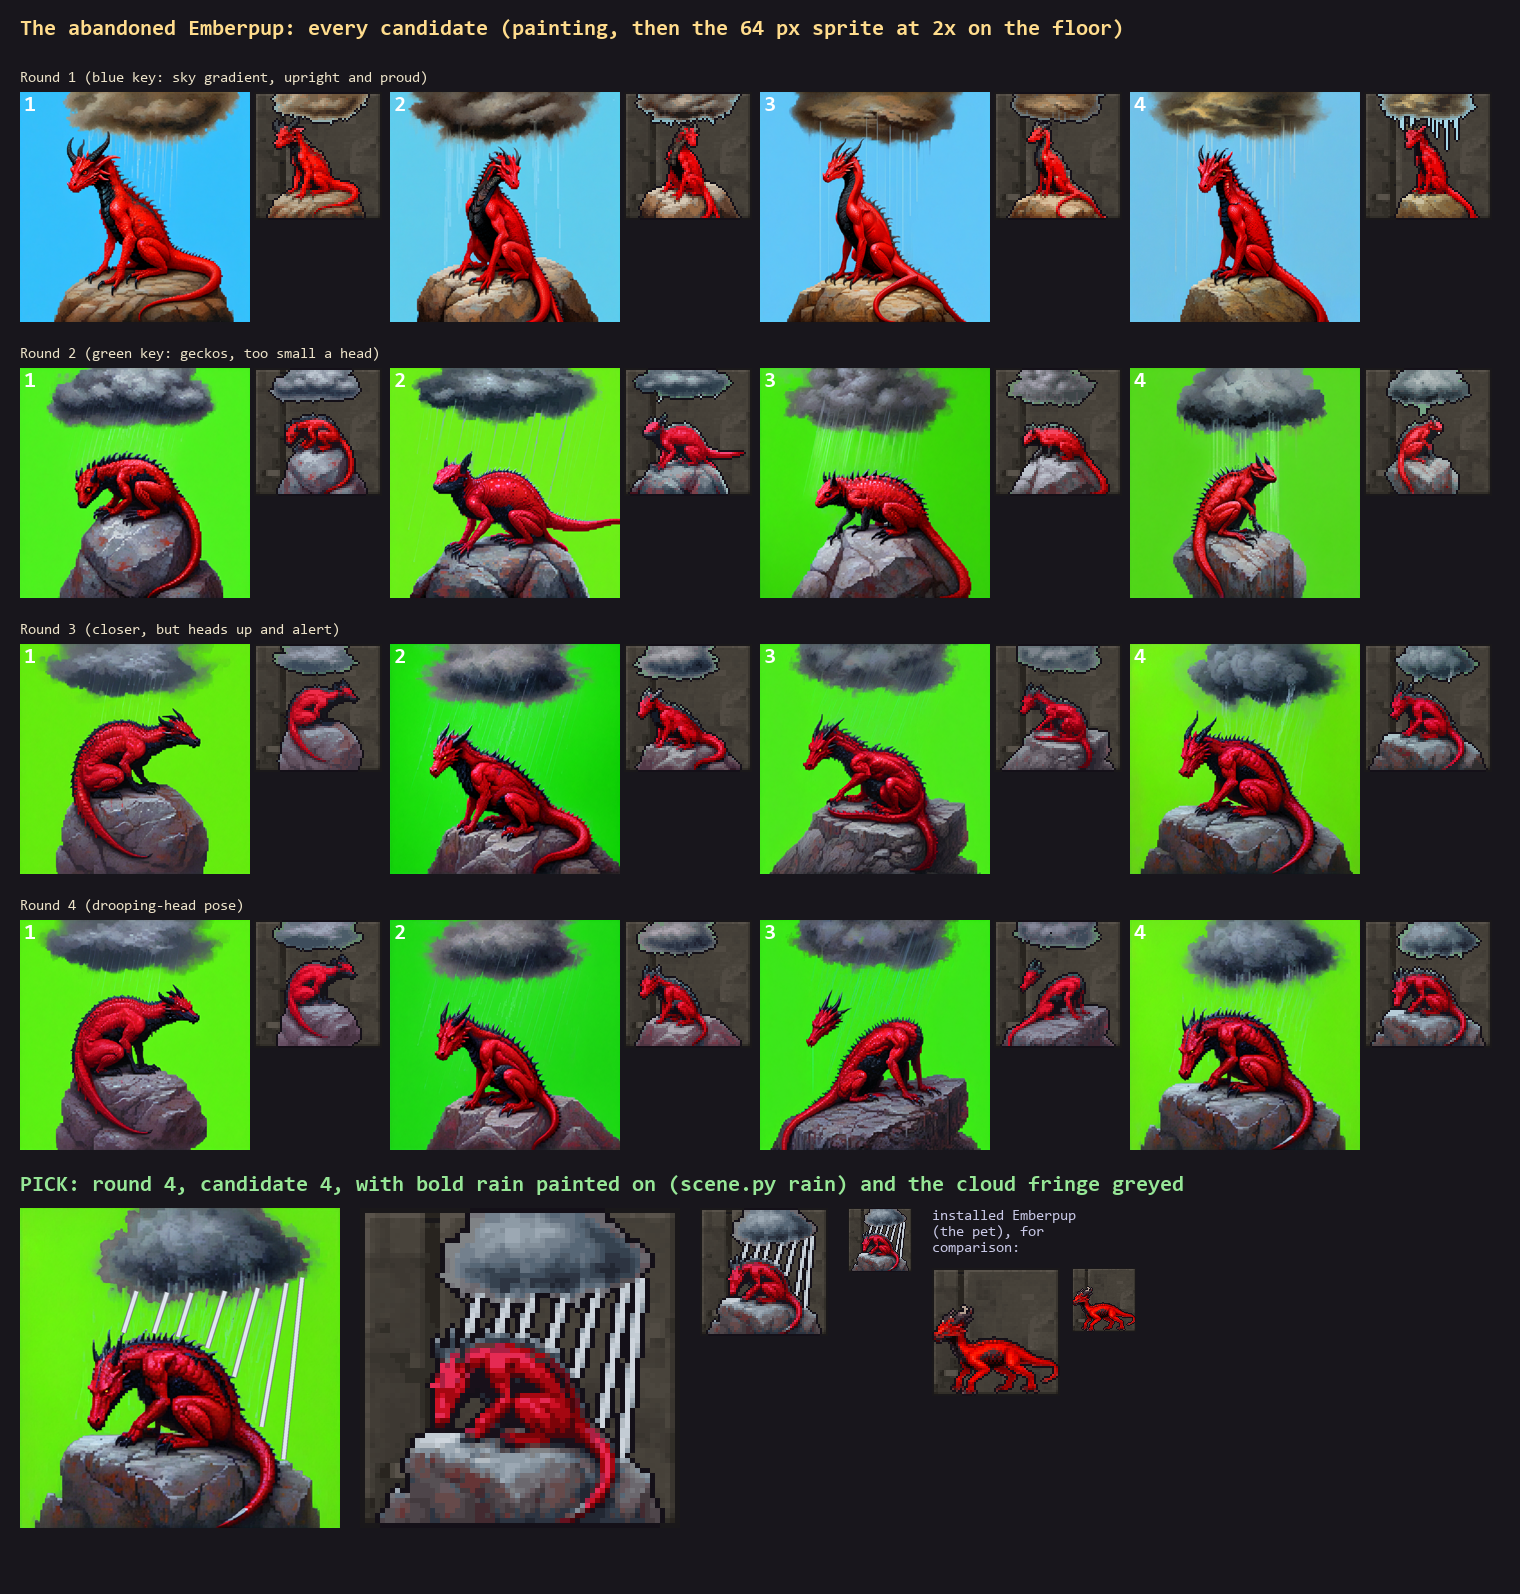
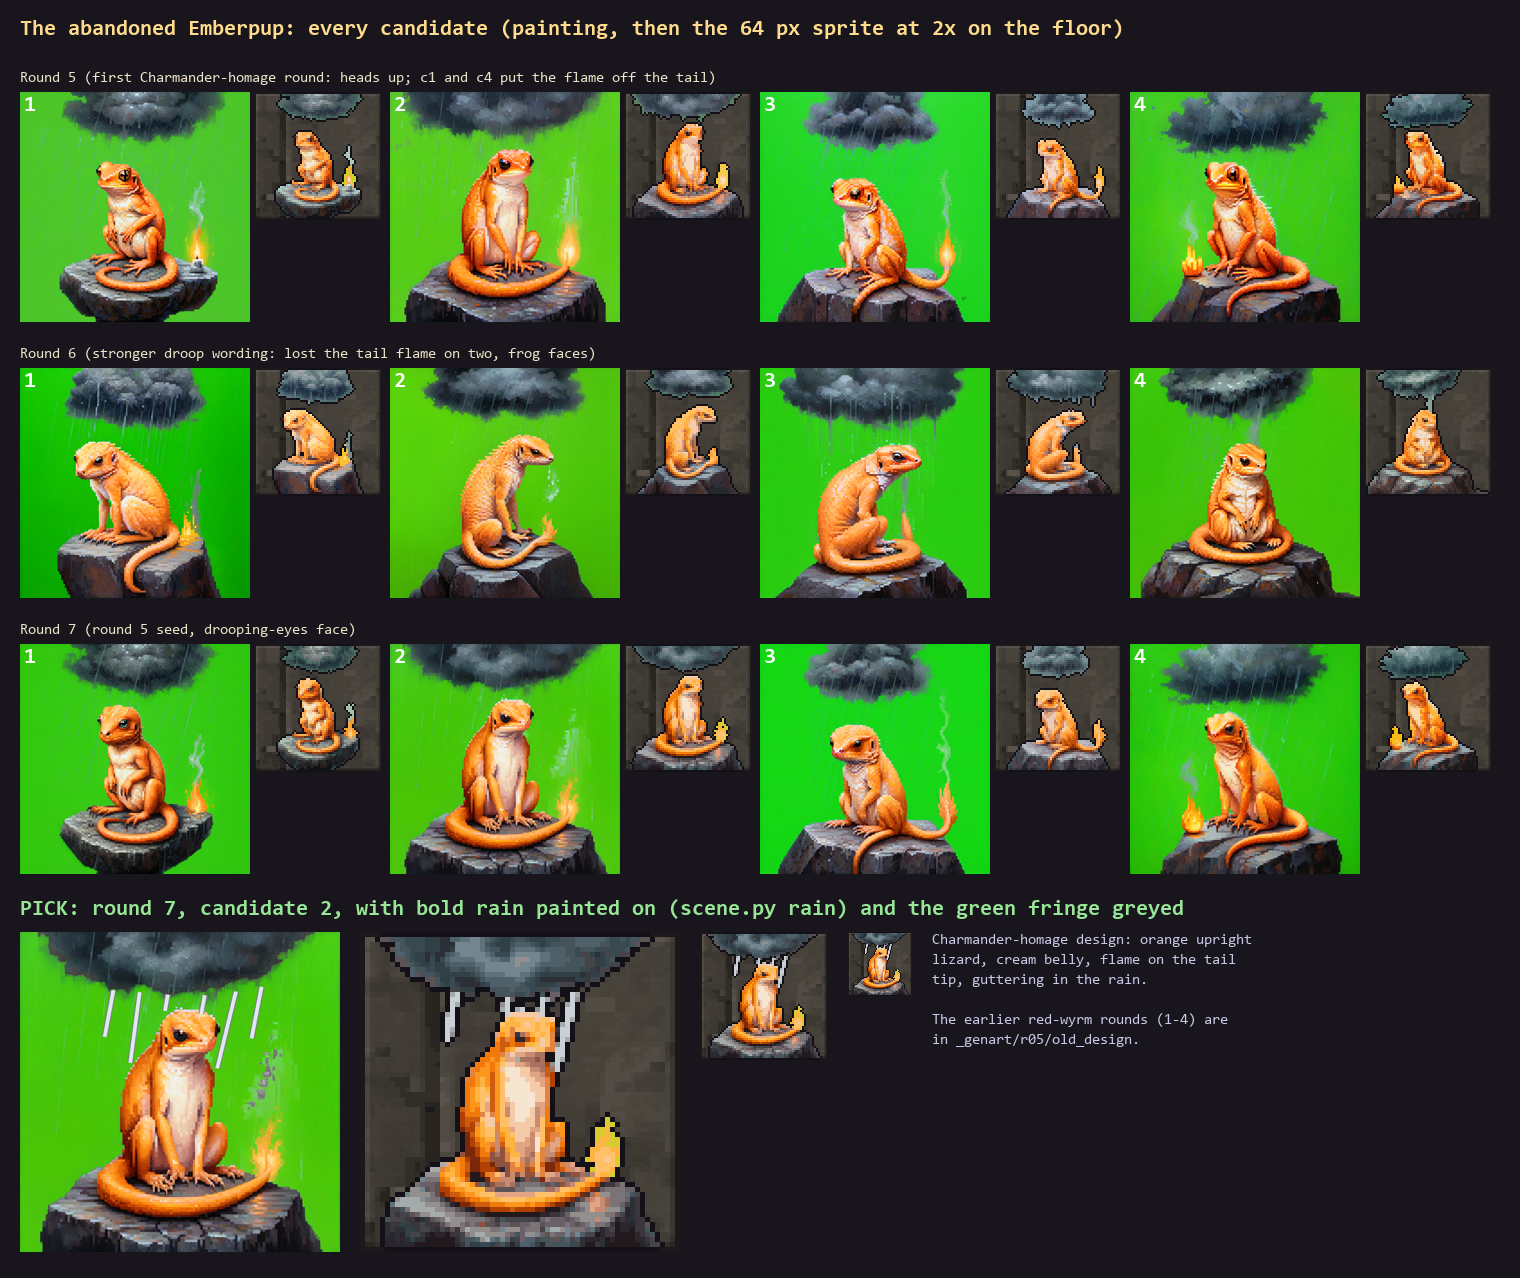
Abandoned Emberpup: redraw as the Charmander-homage design, tail flame guttering
Brandon's new direction for the fire pet line: a small upright orange
lizard with a cream belly, big eyes and a flame on the tail tip. The
encounter sprite is redrawn to match (brief r05 rounds 5-7; pick round 7
candidate 2): it sits hunched on its rock, head bowed, its tail curled
round with the little flame guttering, under the rain cloud. Short bold
rain streaks are painted onto the pick (scene.py rain now also greys the
backdrop's fringe on soft cloud and steam; long streaks read as cage bars).

The encounter text follows: a fire lizard whose tail flame has shrunk to a
guttering flicker and flares up again when it is fed and when it joins
you (it was coals along a wyrm's back). Sheet: EMBERPUP_ENCOUNTER_ART.png.

diff --git a/src/emberpup_encounter.py b/src/emberpup_encounter.py
@@ -1,6 +1,6 @@
 """The abandoned Emberpup: a random event, about one run in five.
 
-On one floor from 3 to 8 a small ember wyrm sits alone on a rock under a little
+On one floor from 3 to 8 a small fire lizard sits alone on a rock under a little
 rain cloud, waiting for a trainer who said they would come back. Bumping it
 opens its screen (``STATE_EMBERPUP``): the first time, its story; then four
 choices.

diff --git a/tests/test_abandoned_emberpup.py b/tests/test_abandoned_emberpup.py
@@ -1,5 +1,5 @@
 """The abandoned Emberpup (src/emberpup_encounter.py): about one run in five, on
-one floor from 3 to 8, a small ember wyrm waits alone on a rock under a rain
+one floor from 3 to 8, a small fire lizard waits alone on a rock under a rain
 cloud. Feed it, leave it, attack it, or (once fed) say "I choose you!" and pass
 an animal quiz (tier 2, two right answers) to make it your pet.
 
